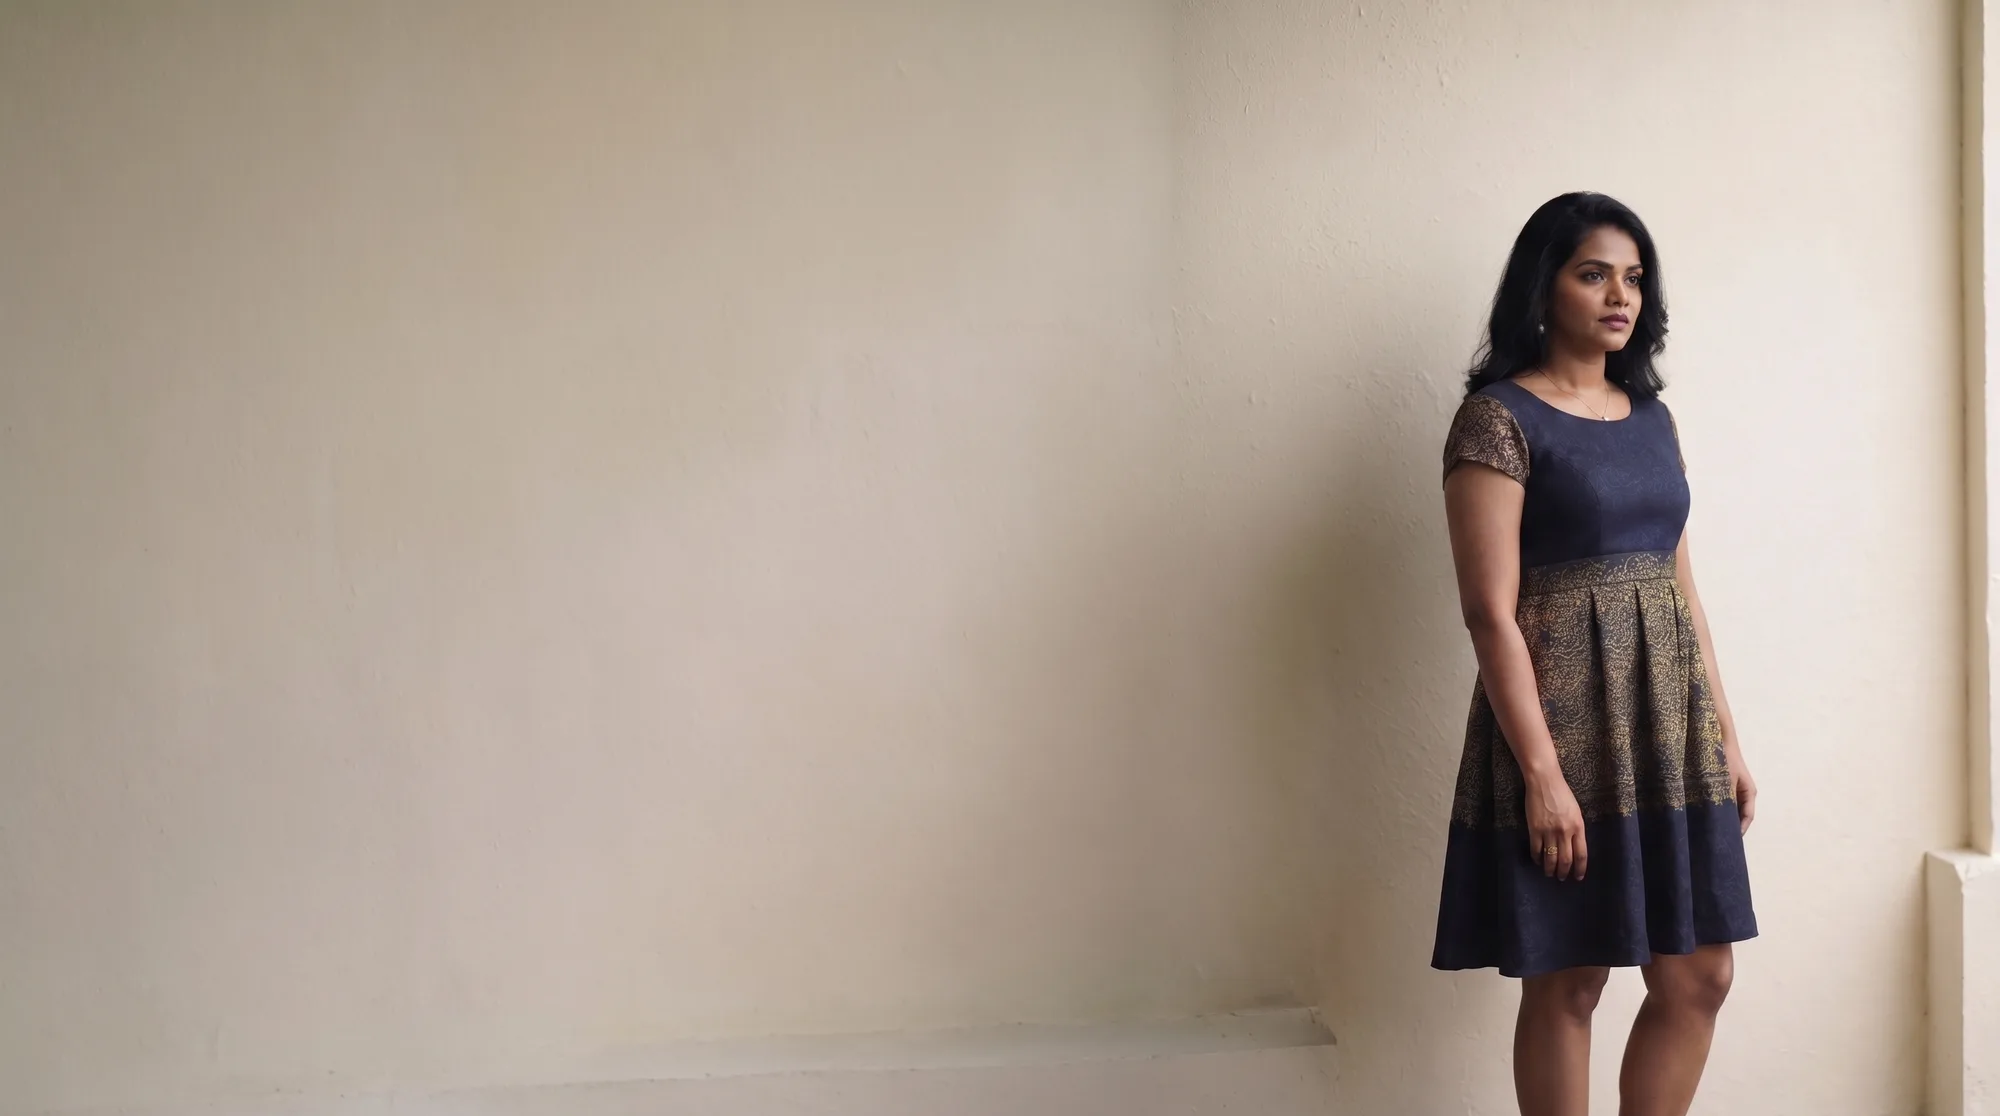
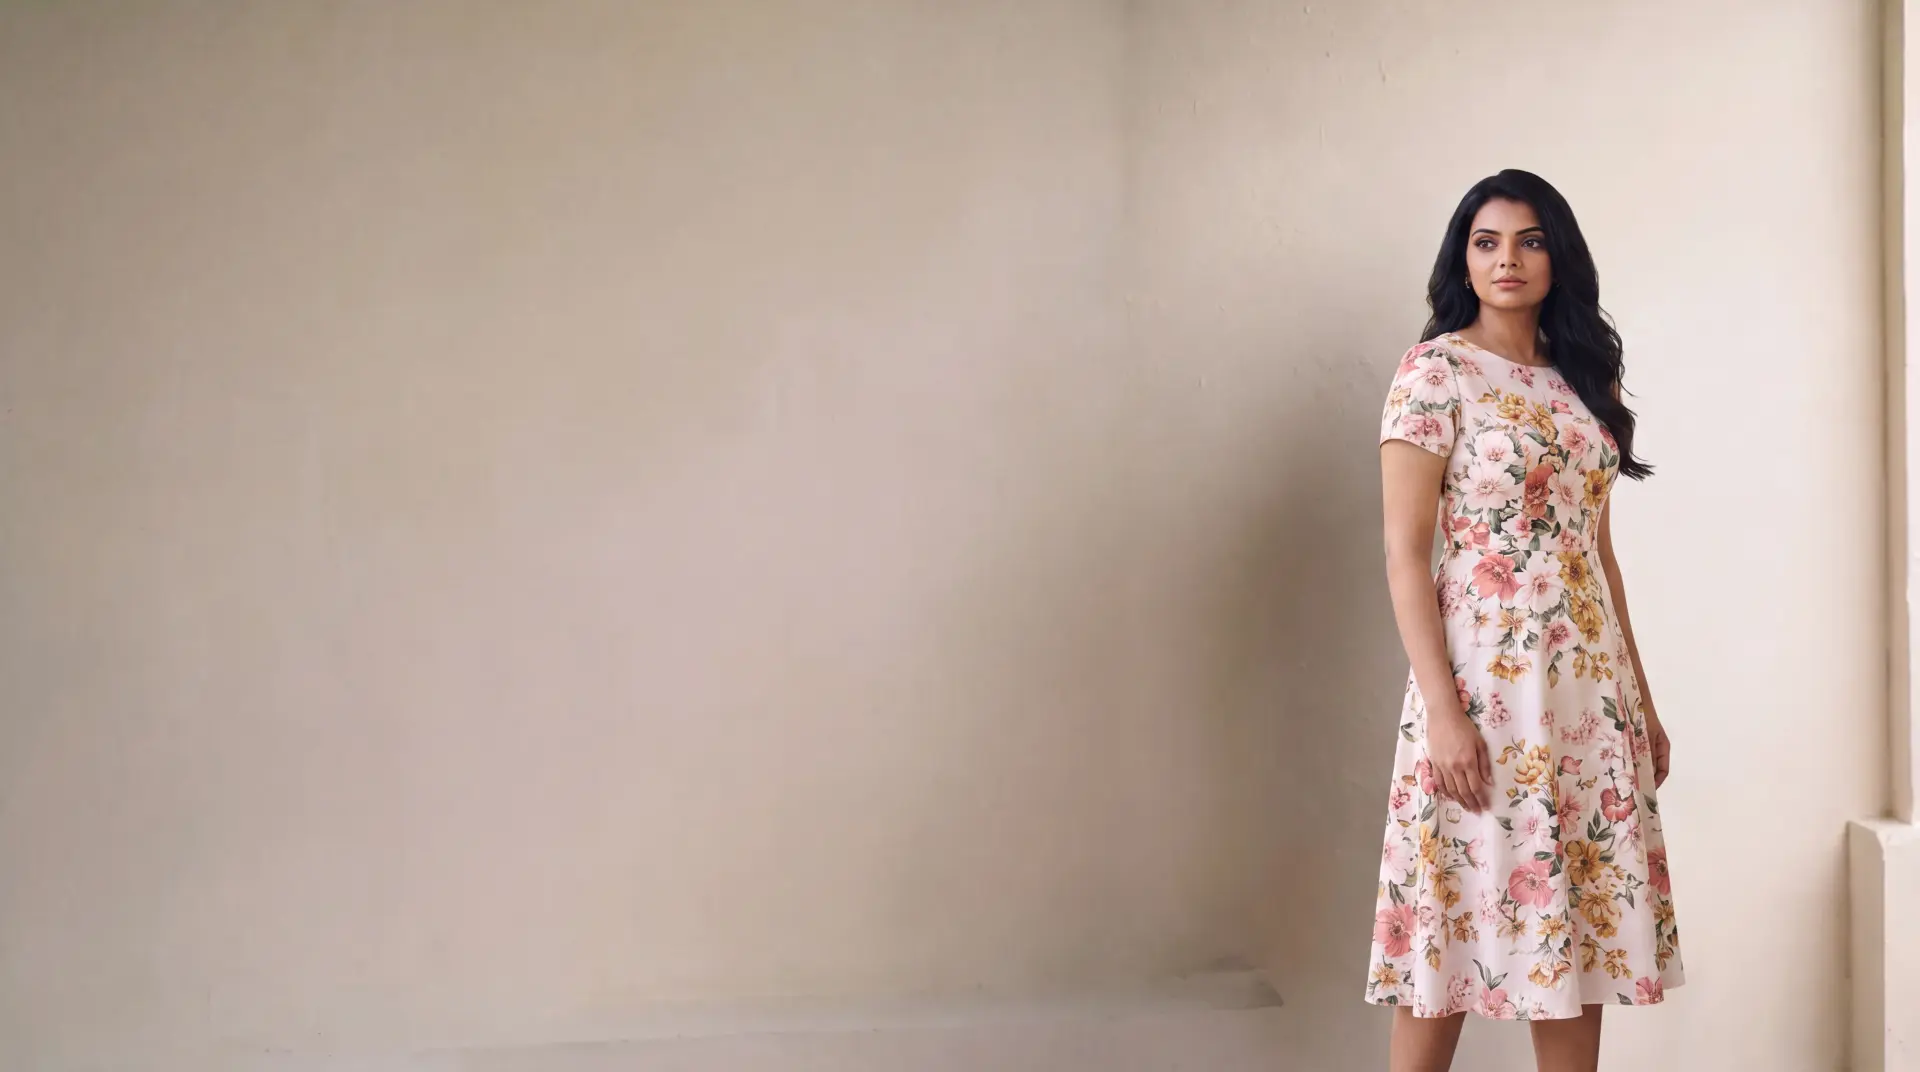
Serve the owner's hero image, and stop the build script eating hand-picked assets
The replaced hero.webp kept showing the old picture. Cause: Next caches every
optimised variant keyed by URL, and the URL did not change - so it served the
cached copy of the file that had been replaced. Clearing
.next/dev/cache/images fixes it, and that is now written down in ASSETS.md
along with the rest of the replace-an-image workflow.

Two things that fell out of it.

The hero is a flower frock now, so the alt text describing "hand-dyed indigo
and gold batik" was simply false. Alt text that describes the previous image is
worse than none: a screen reader states it as fact and a search engine indexes
it as one.

More seriously, build-brand-images.mjs would have silently overwritten the new
hero on its next run, because the raw source still existed. It now records a
checksum of everything it writes in public/brand/.generated.json and refuses to
touch any file it cannot prove it produced - --force overrides. The first
attempt at this guard used timestamps, which is wrong in a way worth naming: a
generated output is always newer than its raw source, so every asset looks
hand-edited. It then destroyed the very file it was meant to protect on its
first run, when no manifest existed yet. The rule is now "only overwrite what we
can prove is ours", and unknown files are preserved rather than assumed.

The hero was recovered at 1920x1072 from Next's own image cache - his original
was 5504x3072, so if he still has it, re-dropping it and clearing the cache
[…]

Changed region(s): [[0.6875, 0.1539, 0.875, 1.0]]

diff --git a/src/features/site/content.ts b/src/features/site/content.ts
@@ -77,7 +77,12 @@ export const site = {
     primaryCta: 'Ask on WhatsApp',
     secondaryCta: 'See what we bring',
     whatsappMessage: `${ASK} I'm looking for something specific — can you help me find it?`,
-    imageAlt: 'A woman in a hand-dyed indigo and gold batik frock, standing in soft daylight',
+    // Describes the photograph currently in `public/brand/hero.webp`. If that
+    // file is swapped for a different garment, this line has to move with it -
+    // alt text that describes the previous image is worse than none, because a
+    // screen reader states it as fact and a search engine indexes it as one.
+    imageAlt:
+      'A woman in a floral-print frock in blush, gold and green, standing in soft daylight against a cream wall',
     scrollCue: 'Scroll',
   },
 

diff --git a/docs/ASSETS.md b/docs/ASSETS.md
@@ -176,3 +176,28 @@ does not sell - if the focus shifts again, these images shift with it.
   data) and 404/500 artwork. Not started, and worth asking the owner first whether
   these should wait for the same designer doing the logo.
 - Category tiles for the wider taxonomy, if the public site ever grows a browse page.
+
+## Replacing an image by hand
+
+Drop your own file straight into `public/brand/` under the same name. Two things
+will otherwise waste your afternoon, and both have already happened once.
+
+**The page keeps showing the old picture.** Next.js caches every optimised
+variant it has produced, keyed by the URL - and the URL did not change, so it
+serves the cached copy of the file you just replaced. Stop the dev server, delete
+the caches, start it again:
+
+```bash
+rm -rf .next/dev/cache/images .next/cache/images
+```
+
+**`build-brand-images.mjs` used to overwrite your file.** It now refuses to touch
+any asset whose checksum does not match `public/brand/.generated.json` - the
+record of what the script itself last wrote. Anything it does not recognise is
+treated as yours and preserved, and it says so when it skips one. Use `--force`
+only when you genuinely want the generated version back.
+
+**Update the alt text.** Every image's description lives in
+`src/features/site/content.ts`. Alt text that describes the previous photograph is
+worse than none, because a screen reader states it as fact and a search engine
+indexes it as one.
